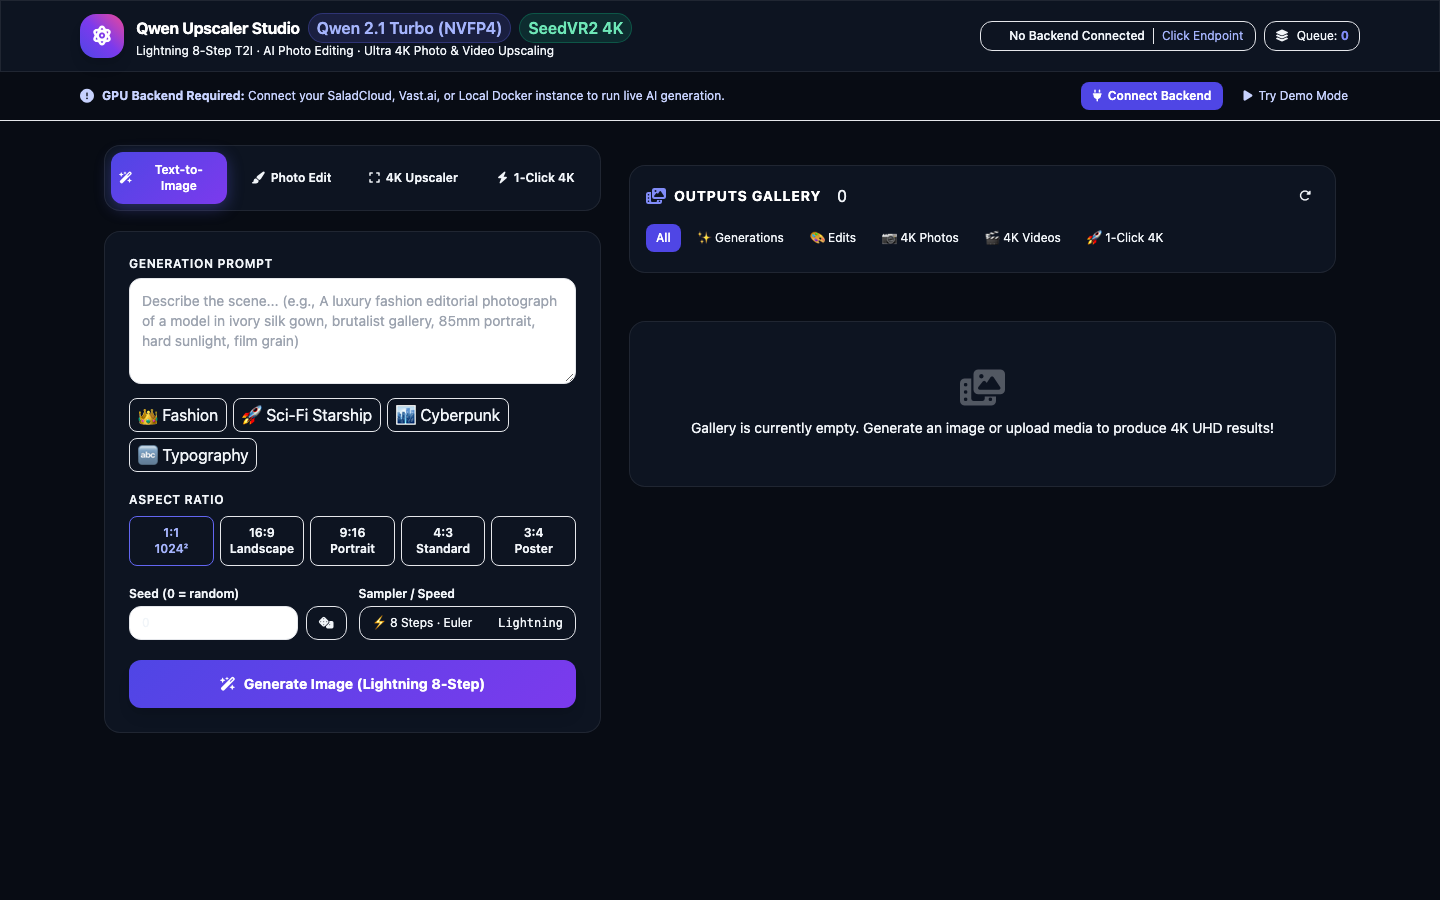
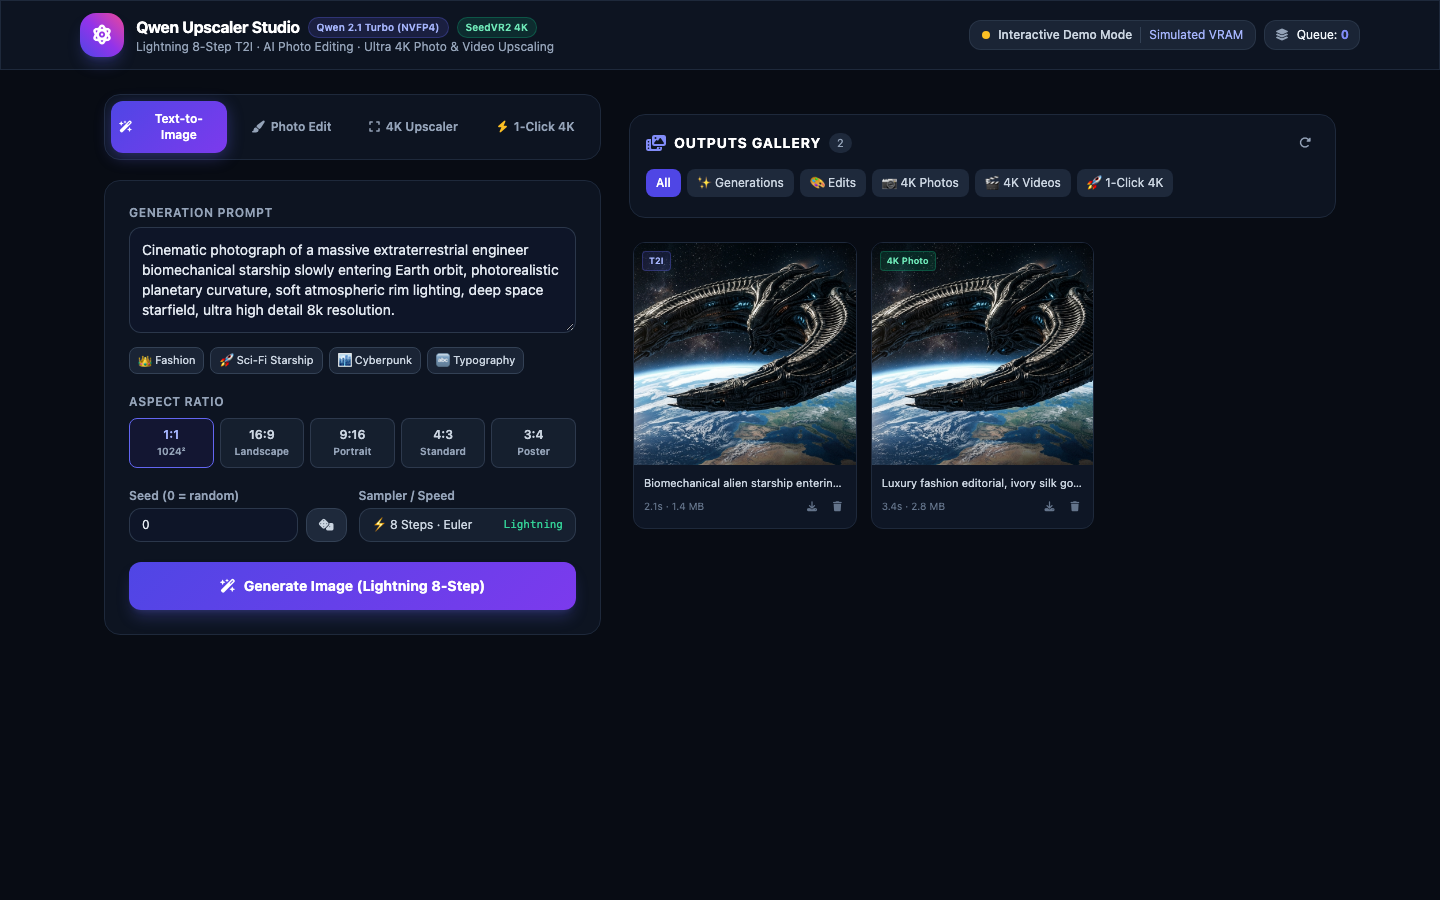
fix: update main screenshot with populated demo cards and bust GitHub cache

Changed region(s): [[0.0625, 0.0, 0.875, 0.8089], [0.6562, 0.0311, 0.9375, 0.1244], [0.3438, 0.1867, 0.4062, 0.2178]]

diff --git a/salad_app/static/index.html b/salad_app/static/index.html
@@ -561,12 +561,22 @@
         {
           job_id: 'demo_starship',
           filename: 'engineer_starship_4k.jpg',
-          url: 'https://raw.githubusercontent.com/s3rfdev/qwen_upscaler/main/docs/screenshots/sample_qwen_turbo_render.jpg',
+          url: 'sample_render.jpg',
           type: 'generate',
           media_type: 'image',
           prompt: 'Biomechanical alien starship entering Earth orbit, photorealistic planetary curvature, soft atmospheric rim lighting',
           duration: 2.1,
           size_mb: '1.4'
+        },
+        {
+          job_id: 'demo_fashion',
+          filename: 'luxury_fashion_editorial.jpg',
+          url: 'sample_render.jpg',
+          type: 'upscale_photo',
+          media_type: 'image',
+          prompt: 'Luxury fashion editorial, ivory silk gown, brutalist gallery',
+          duration: 3.4,
+          size_mb: '2.8'
         }
       ];
       renderGallery(galleryItems);
@@ -1050,6 +1060,11 @@
     const initialTab = urlParams.get('tab');
     if (initialTab && ['gen', 'edit', 'upscale', 'combo'].includes(initialTab.toLowerCase())) {
       switchMainTab(initialTab.toLowerCase());
+    }
+
+    if (urlParams.get('demo') === '1' || urlParams.get('demo') === 'true') {
+      enableDemoMode();
+      fillGenPrompt('scifi');
     }
 
     updateStats();

diff --git a/README.md b/README.md
@@ -20,7 +20,7 @@
   <a href="#-rest-api-reference">REST API</a>
 </p>
 
-![Qwen Upscaler Studio Desktop UI](docs/screenshots/ui_desktop_main.png)
+![Qwen Upscaler Studio Desktop UI](docs/screenshots/ui_desktop_studio.png)
 
 </div>
 
